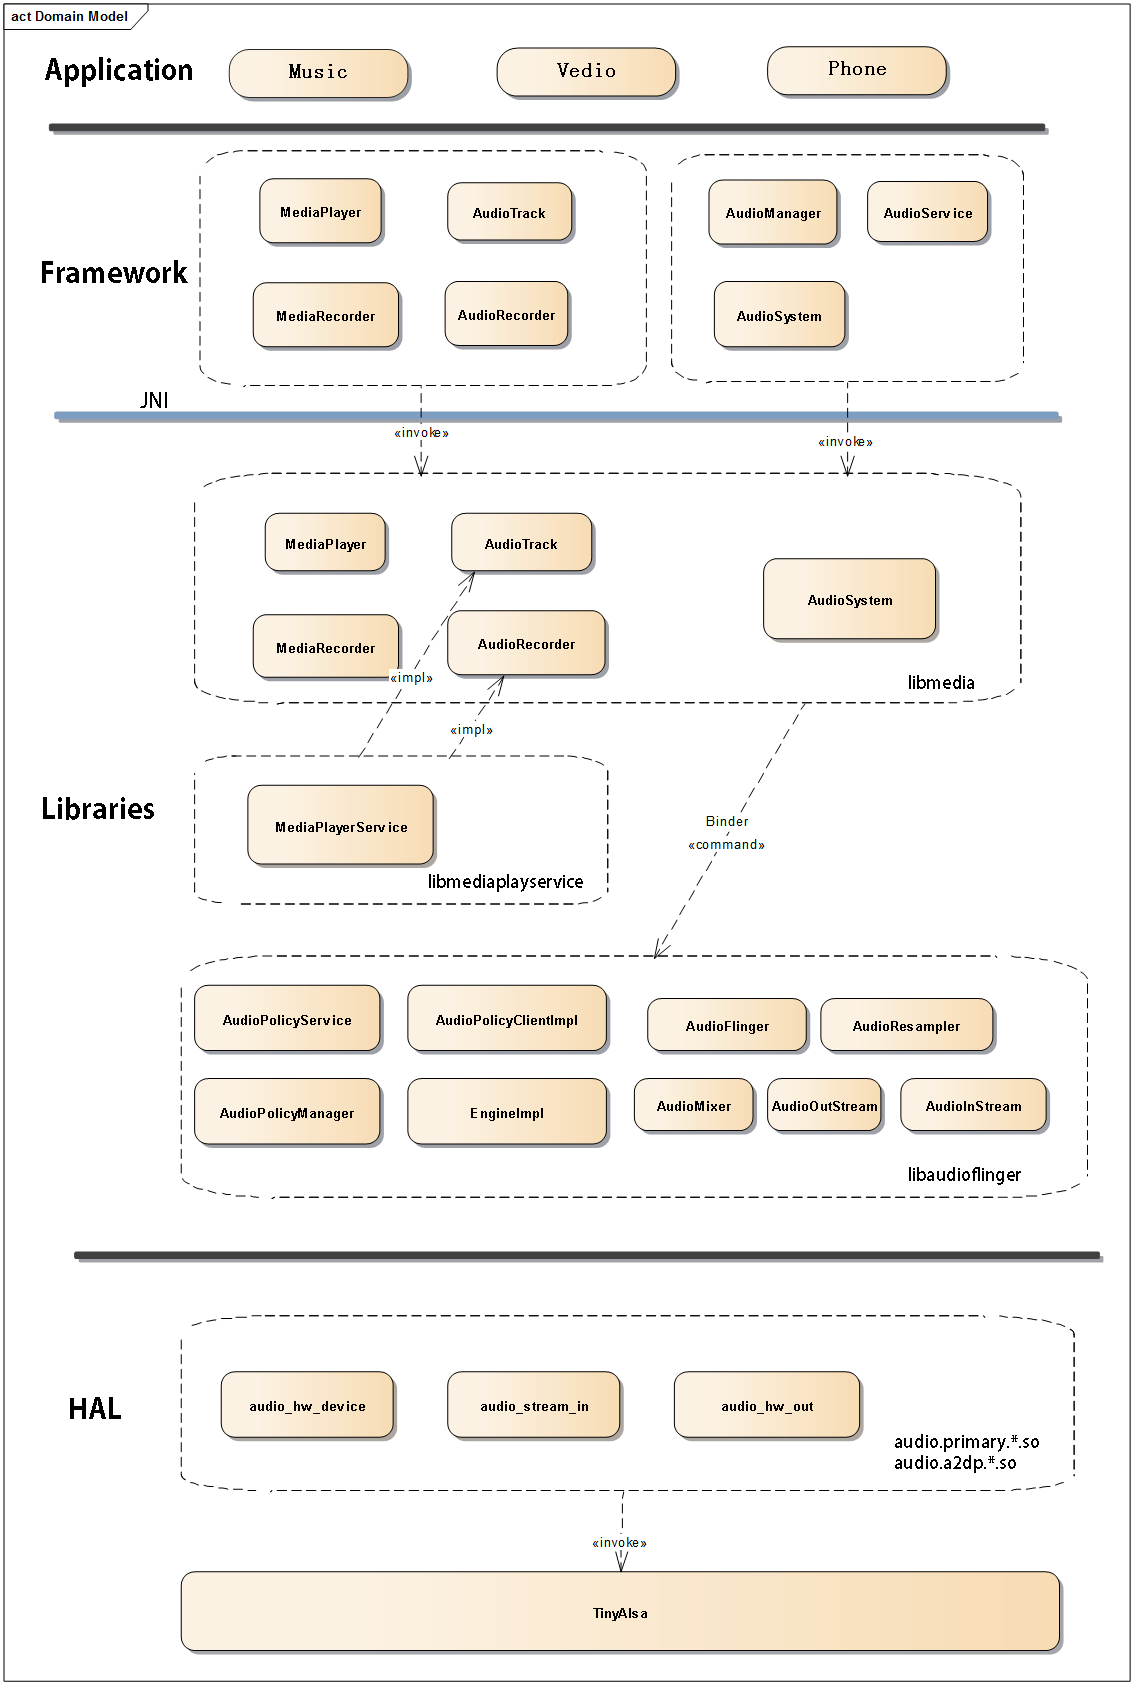
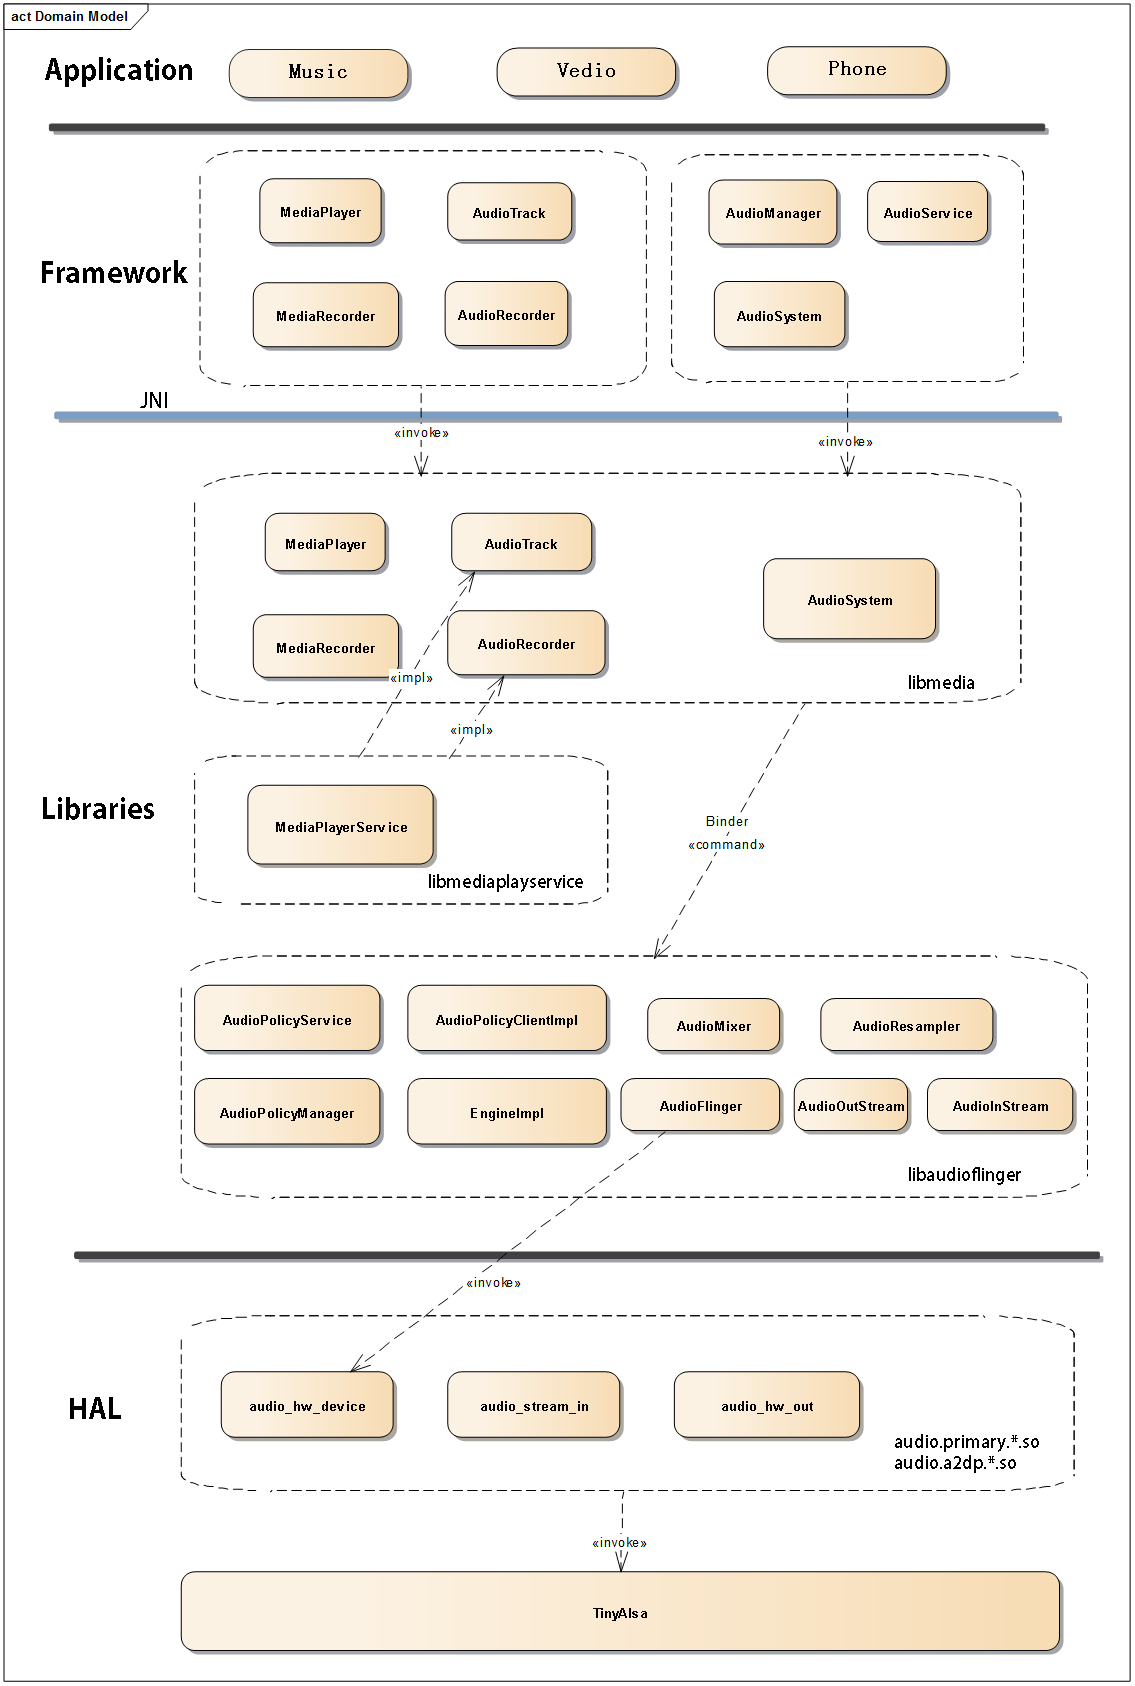
[CHG] add audio_2.png update md file.

diff --git a/audio/Android系统音频模块-Native层初始化工作.md b/audio/Android系统音频模块-Native层初始化工作.md
@@ -1483,7 +1483,11 @@ AudioFlinger::ThreadBase::TrackBase::TrackBase(
 
 ```
 
-我相信只要看到Google工程师对这个类的注释，你也会恍然大悟吧。你是否还记得在AudioTrack最后调用createTrack()方法，生成了 IAudioTrack 对象，没错，TrackHandle 就是它服务端的代理对象，继承了BnAudioTrack，我相信这些方法都是对Track对象的控制和管理吧。下面我们来小结下AudioFlinger的初始化工作，首先最重要的是根据Client端传来的output找到了适合它自己的播放线程，然后这个线程调用createTrack_l()方法生成了Track对象，在这个对象构造方法，构建了STREAM模式下的共享内存，然后封装成TrackHandle对象返回给Client端的AudioTrack，而这个TrackHandle对象和Client端的IAudioTrack对象就是对这个Track对象和播放线程的控制和管理的作用。
+我相信只要看到Google工程师对这个类的注释，你也会恍然大悟吧。你是否还记得在AudioTrack最后调用createTrack()方法，生成了 IAudioTrack 对象，没错，TrackHandle 就是它服务端的代理对象，继承了BnAudioTrack，我相信这些方法都是对Track对象的控制和管理吧。下面我们来小结下AudioFlinger的初始化工作，如下图所示，首先最重要的是根据Client端传来的output找到了适合它自己的播放线程，然后这个线程调用createTrack_l()方法生成了Track对象，在这个对象构造方法，构建了STREAM模式下的共享内存，然后封装成TrackHandle对象返回给Client端的AudioTrack，而这个TrackHandle对象和Client端的IAudioTrack对象就是对这个Track对象和播放线程的控制和管理的作用。
+
+![audio_2](F:\project\github\Framework-Study\audio\audio_2.png)
+
+
 
 ### 2.2.  AudioPolicyService的初始化工作
 

diff --git a/audio/Android系统音频模块 - Java 层初始化工作.md b/audio/Android系统音频模块 - Java 层初始化工作.md
@@ -2,7 +2,7 @@
 
 ## 前言
 
-Android的音频模块相对来说是Android系统中比较简单的一个模块，但是仅仅是相对来说，Android系统中任何一个模块都非常的复杂，但是如果想学习framework相关的知识，我觉得音频模块是一个很好的切入点。Android系统中的音频模块几乎涵盖了Android系统中的所有层次，下图是它的框图（本人花了好长时间画的~）：
+Android的音频模块相对来说是Android系统中比较简单的一个模块，但是仅仅是相对来说，Android系统中任何一个模块都非常的复杂，但是如果想学习framework相关的知识，我觉得音频模块是一个很好的切入点。Android系统中的音频模块几乎涵盖了Android系统中的所有层次，下图是它的框图：
 
  ![audio_1](audio_1.png)
 
